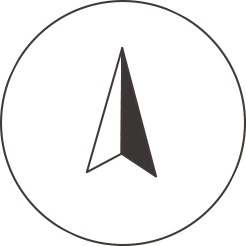
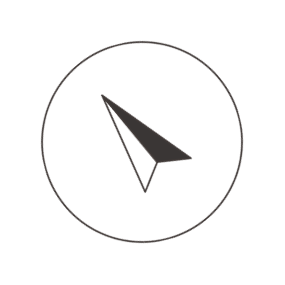
update section one

diff --git a/pages/index.html b/pages/index.html
@@ -25,50 +25,67 @@
       <img class="campass" src="../../assets/images/campass.png" alt="">
       <div class="input-outline">
         <div class="box">
-          <input type="text">
+          <div class="input"></div>
           <div class="input-inside">
             <div class="input-inside-left">
               <img src="../../assets/images/Search.png" alt="">
-              <span>查表演</span>
+              <input class="search-input" type="text" placeholder="查表演">
             </div>
-            <span>搜尋</span>
+            <button>搜尋</button>
           </div>
         </div>
       </div>
       <div class="title-bg">
-        <img src="https://raw.githubusercontent.com/winniecat777/performanceSearch/main/assets/images/titile-bg-news.png" alt="">
         <h2 class="title">熱門演出</h2>
       </div>
     </div>
     <!-- dashed-background end -->
 
     <!-- banner start -->
-    <div class="banner-part">
-      <div class="banner-content">
-        <div class="banner-info banner-container">
-          <p>真善美藝術表演中心</p>
-          <p>狼與彼得 TASO互動式親<br>子音樂會</p>
-          <p>
-            音樂X戲劇X互動演出 <br>
-            經典作品神反轉！<br>
-            一起來段意想不到的音樂冒險
-          </p>
-        </div>
-        <hr>
-        <ul class="pagination banner-container">
-          <li class="page-item"><a class="page-link" href="#">1</a></li>
-          <li class="page-item"><a class="page-link" href="#">2</a></li>
-          <li class="page-item"><a class="page-link" href="#">3</a></li>
-          <li class="page-item"><a class="page-link" href="#">4</a></li>
-          <li class="page-item"><a class="page-link" href="#">5</a></li>
-          <li class="page-item"><a class="page-link" href="#">6</a></li>
-          <li class="page-item"><a class="page-link" href="#">7</a></li>
-        </ul>
+    <div id="carouselExampleDark" class="carousel carousel-dark slide" data-bs-ride="carousel">
+      <div class="carousel-indicators">
+        <button type="button" data-bs-target="#carouselExampleDark" data-bs-slide-to="0" class="active" aria-current="true"
+          aria-label="Slide 1"></button>
+        <button type="button" data-bs-target="#carouselExampleDark" data-bs-slide-to="1" aria-label="Slide 2"></button>
+        <button type="button" data-bs-target="#carouselExampleDark" data-bs-slide-to="2" aria-label="Slide 3"></button>
       </div>
-      <img class="banner-img" src="https://github.com/winniecat777/performanceSearch/blob/main/assets/images/Rectangle.png?raw=true" alt="">
-      <div class="banner-bg"></div>
+      <div class="carousel-inner">
+        <div class="carousel-item active" data-bs-interval="10000">
+          <img src="https://raw.githubusercontent.com/winniecat777/performanceSearch/main/assets/images/banner01.png"
+            class="d-block w-100" alt="...">
+          <div class="carousel-caption d-none d-md-block">
+            <h5>First slide label</h5>
+            <p>Some representative placeholder content for the first slide.</p>
+          </div>
+        </div>
+        <div class="carousel-item" data-bs-interval="2000">
+          <img src="https://raw.githubusercontent.com/winniecat777/performanceSearch/main/assets/images/banner02.png"
+            class="d-block w-100" alt="...">
+          <div class="carousel-caption d-none d-md-block">
+            <h5>Second slide label</h5>
+            <p>Some representative placeholder content for the second slide.</p>
+          </div>
+        </div>
+        <div class="carousel-item">
+          <img src="https://raw.githubusercontent.com/winniecat777/performanceSearch/main/assets/images/banner04.png"
+            class="d-block w-100" alt="...">
+          <div class="carousel-caption d-none d-md-block">
+            <h5>Third slide label</h5>
+            <p>Some representative placeholder content for the third slide.</p>
+          </div>
+        </div>
+      </div>
+      <button class="carousel-control-prev" type="button" data-bs-target="#carouselExampleDark" data-bs-slide="prev">
+        <span class="carousel-control-prev-icon" aria-hidden="true"></span>
+        <span class="visually-hidden">Previous</span>
+      </button>
+      <button class="carousel-control-next" type="button" data-bs-target="#carouselExampleDark" data-bs-slide="next">
+        <span class="carousel-control-next-icon" aria-hidden="true"></span>
+        <span class="visually-hidden">Next</span>
+      </button>
     </div>
     
+    <div class="banner-bg"></div>
     <!-- banner end -->
 
   </section>

diff --git a/assets/scss/pages/_index.scss b/assets/scss/pages/_index.scss
@@ -14,9 +14,9 @@ main{
   
   .campass {
     position: absolute;
-    top: 244px;
+    top: 123px;
     right: -6px;
-    transform: rotate(-45deg);
+    transform: rotate(-5deg);
   }
 
   .input-outline {
@@ -38,12 +38,12 @@ main{
         box-sizing: border-box;
         box-shadow: 0px 0px 0px 2px #888;
 
-        input {
+        .input {
           width: 100%;
           height: 100%;
           border: 3px solid #888;
           box-sizing: border-box;
-          background-color: #B0CD8E;
+          background-color: $theme-green;
         }
 
         .input-inside {
@@ -57,101 +57,101 @@ main{
           align-items: center;
           justify-content: space-between;
           font-size: 23px;
-          font-weight: 500;
 
           &-left {
-            span {
-              vertical-align: middle;
+            width: 87%;
+            display: flex;
+            align-items: center;
+
+            .search-input {
+              outline: none;
+              width: 89%;
+              border-style: none;
+              background-color: $theme-green;
+
+              &::placeholder {
+                color: #000000;
+                font-size: 23px;
+                font-weight: 450;
+
+
+              }
             }
           }
 
+          button {
+            color: #000;
+            font-size: 23px;
+            font-weight: 450;
+            background-color: $theme-green;
+            padding: 5px 10px;
+            border-radius: 12px;
+            border: none;
+
+            &:hover {
+              background-color: #EEE;
+            }
+          }
+
+
         }
+        
       }
   }
 
   .title-bg {
-    position: relative;
-    width: 40%;
+    max-width: 40%;
     margin: 0 auto;
     text-align: center;
+    padding: 25px 10px;
+    background-image: url(/assets/images/titile-bg-news.png);
+    background-repeat: no-repeat;
+    background-position-x: center;
+    background-position-y: center;
 
     .title {
-      position: absolute;
       font-weight: 700;
       font-size: 2.3rem;
       letter-spacing: 19px;
-      top: 56px;
-      left: 190px;
+      padding-top: 26px;
     }
+
+    
+
   }
 
-  // banner
-  .banner-part {
-    position: relative;
-    max-width: 100%;
-
-    .banner-content {
-      position: absolute;
-      outline: 1px solid #625B5A;
-      width: 356px;
-      height: 382px;
-      top: 35%;
-      right: 3%;
-      background-color: #fff;
-      display: flex;
-      flex-direction: column;
-      justify-content: space-evenly;
-      opacity: 0.85;
-
-      .banner-container {
-        width: 82%;
-        margin: 0 auto;
-      }
-
-      .banner-info {
-        p:nth-child(1) {
-          margin-top: 23px;
-        }
-
-        p:nth-child(2) {
-          font-size: 26px;
-          font-weight: 700;
-        }
-
-        p:nth-child(3) {
-          font-size: 18px;
-        }
-      }
-    }
-
-    .pagination {
-      display: flex;
-      justify-content: space-between;
-      padding-bottom: 12px;
-      font-size: 18px;
-
-      .page-item {
-        border-radius: -1px;
-
-        .page-link {
-          color: #625B5A;
-        
-          &:focus {
-            color: #fff;
-            background-color: #625B5A;
+  // section 1 - banner
+  .carousel {
+      width: 96vw;
+  
+      .carousel-inner {
+        .carousel-item {
+          width: 100%;
+  
+          img {
+            // width: 100%;
+            // height: 100%;
+            // height: 100vh;
+            line-height: 1
           }
         }
+  
+        .carousel-control {
+          height: 100vh;
+        }
       }
-    }
-
-    .banner-bg {
-      width: 96.9%;
-      padding: 29px 0;
-      margin-left: 23px;
-      transform: skew(38deg);
-      background-color: $theme-green;
-    }
   }
+  
+  .banner-bg {
+    width: 96.9%;
+    padding: 29px 0;
+    margin-left: 23px;
+    transform: skew(38deg);
+    border-bottom: 1px solid #fff;
+    background-color: $theme-green;
+  }
+
+
 }
 // dot-bg
 .bg-dot {

diff --git a/assets/scss/componets/_dashedBg.scss b/assets/scss/componets/_dashedBg.scss
@@ -6,7 +6,7 @@ $dash-color: #D4F4F2;
 $background: #FFFFFF;
 
 .dashed-bg {
-  padding: 0;
+  padding: 25px 0px;
   background-color: $background;
   background-size: $dash-length*2 $dash-length*2, $grid-size $grid-size;
   background-image:
